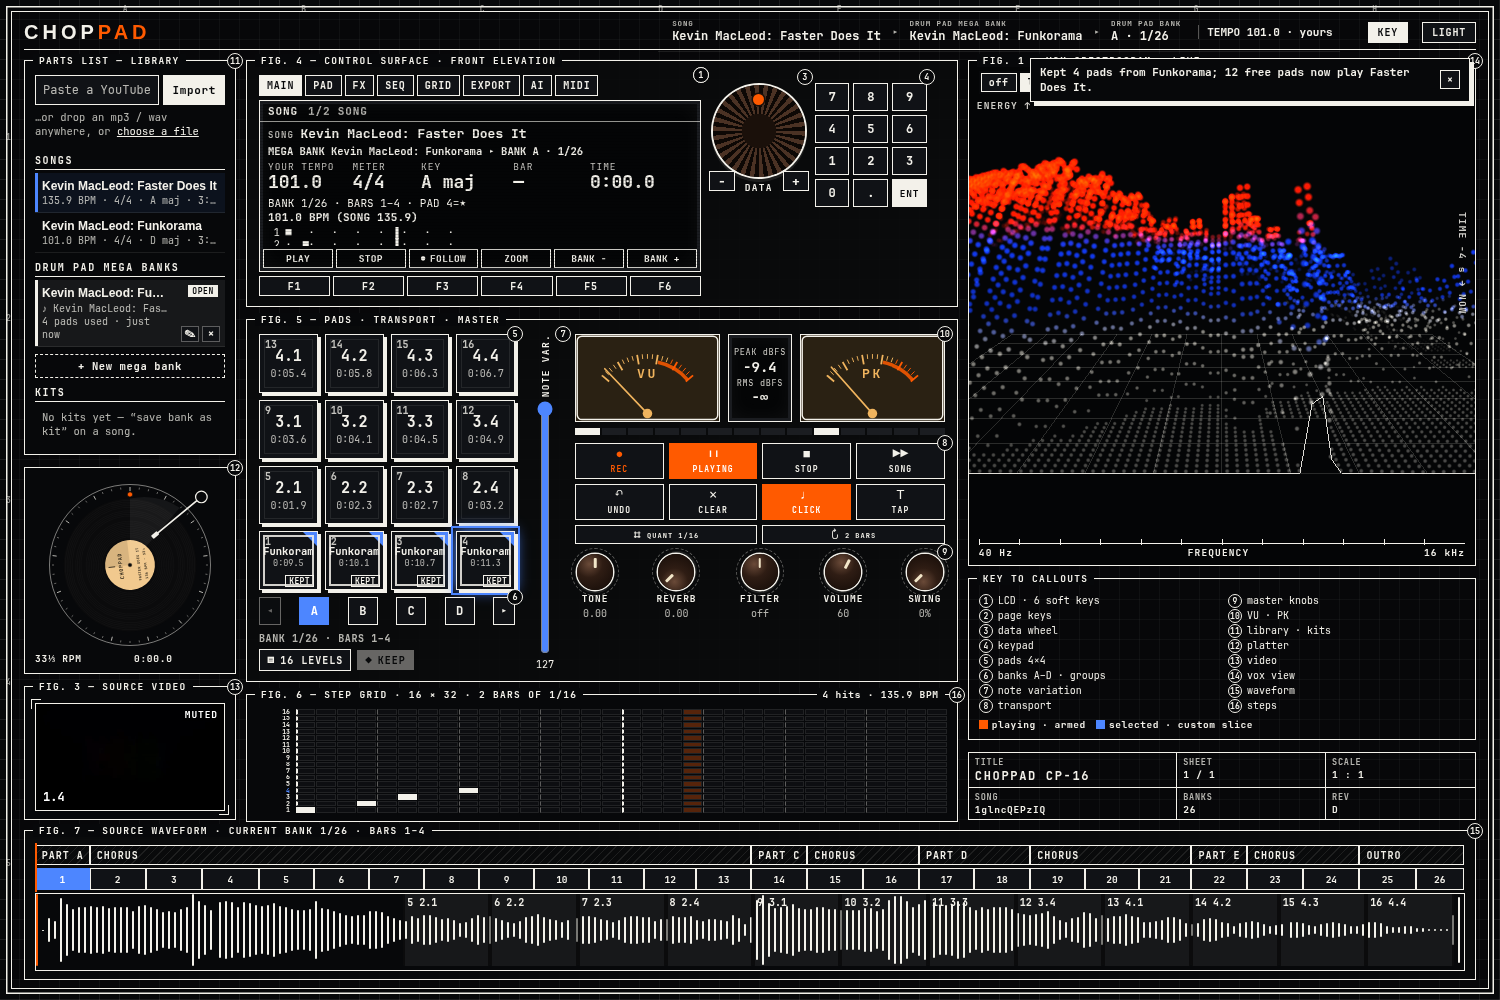
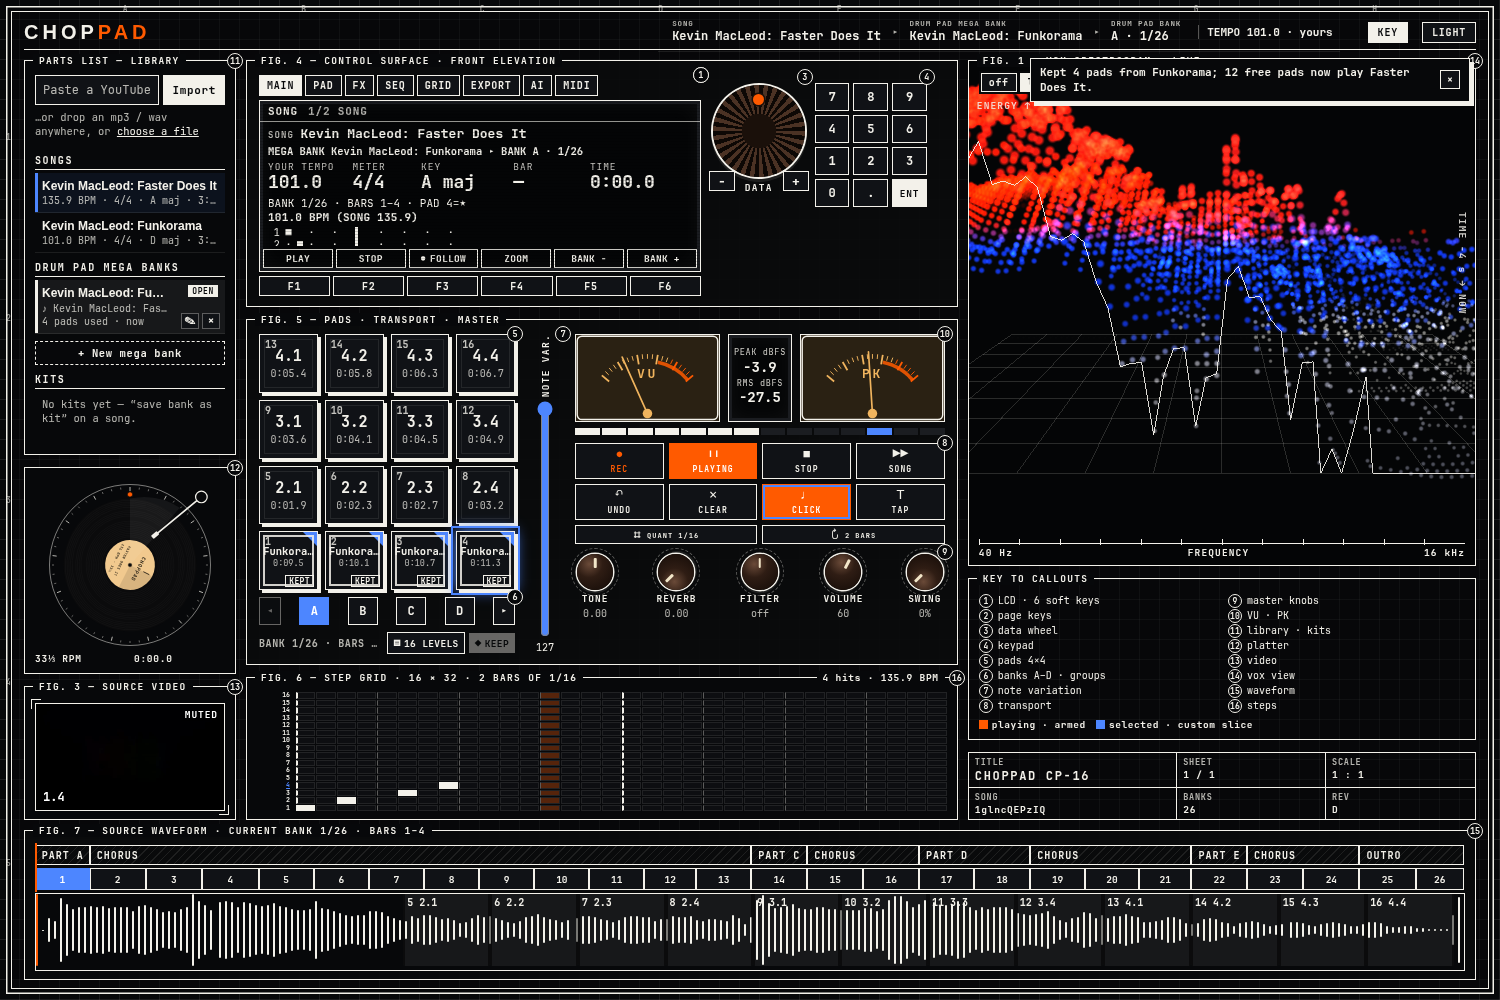
Mega banks step C: pad label ellipsis, compact keys, bank label title, final screenshots

diff --git a/components/ui/views/pads.js b/components/ui/views/pads.js
@@ -138,6 +138,7 @@ export function mount(root, session, env) {
     const ids = chops.banks[bank] ?? [];
     const a = chops.chops[ids[0]], z = chops.chops[ids.at(-1)];
     $(".bank-label").textContent = `Bank ${bank + 1}/${n} · bars ${a ? a.bar + 1 : "—"}–${z ? z.bar + 1 : "—"}`;
+    $(".bank-label").title = $(".bank-label").textContent;
   }
   d.add(store.subscribe((s, prev) => { if (s.chops !== prev.chops || s.bank !== prev.bank || s.project.overrides !== prev.project.overrides) renderBanks(); }));
   renderBanks();

diff --git a/components/ui/library.js b/components/ui/library.js
@@ -6,7 +6,7 @@ const esc = (s) => String(s ?? "").replace(/[&<>"]/g, (c) => ({ "&": "&amp;", "<
 const ago = (t) => {
   if (!Number.isFinite(t)) return "";
   const s = Math.max(0, Date.now() / 1000 - t);
-  if (s < 45) return "just now";
+  if (s < 45) return "now";
   if (s < 3600) return `${Math.round(s / 60)} min ago`;
   if (s < 86400) return `${Math.round(s / 3600)} h ago`;
   return new Date(t * 1000).toISOString().slice(0, 10);
